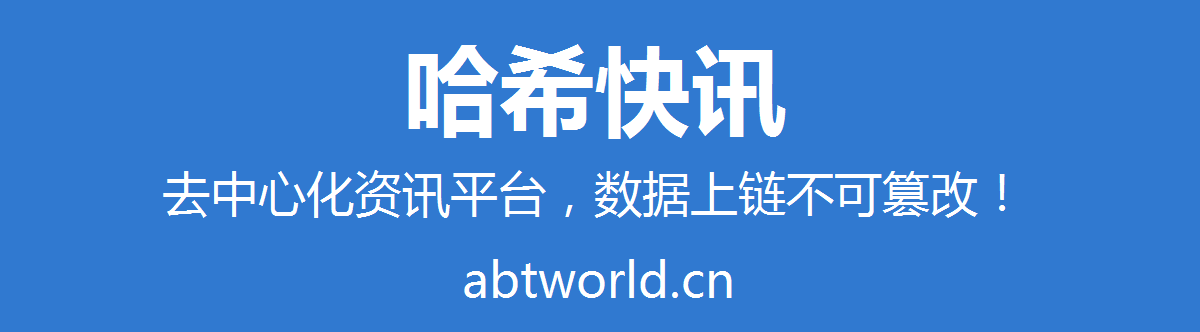
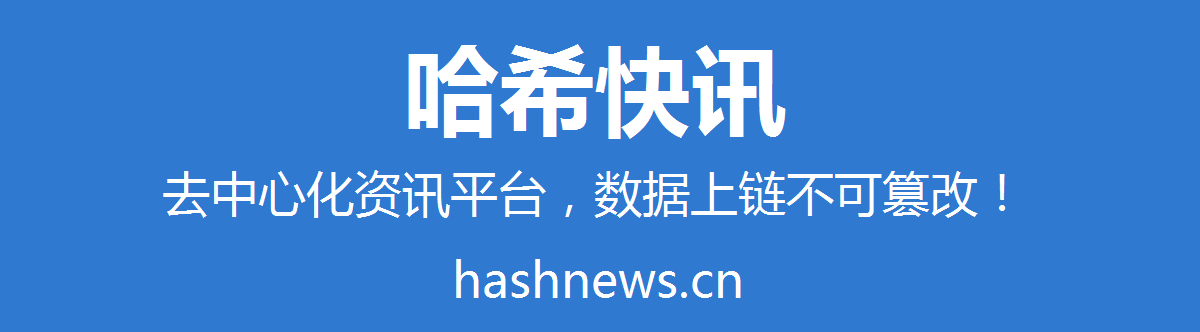
change abtworld to hashnews only

Changed region(s): [[0.37, 0.7831, 0.6167, 0.9036]]

diff --git a/api/routes/auth/login.js b/api/routes/auth/login.js
@@ -1,5 +1,6 @@
 /* eslint-disable object-curly-newline */
 /* eslint-disable no-console */
+const semver = require('semver');
 const env = require('../../libs/env');
 const { User } = require('../../models');
 const { login } = require('../../libs/jwt');
@@ -22,13 +23,35 @@ const loginReqFields = ['fullName', 'email', 'avatar'];
 /*The ios wallet 1.0 will crash when request avatar*/
 //const loginReqFields = ['fullName', 'email'];
 
+const MIN_VERSION_SUPPORT = { android: '2.1.0', ios: '2.1.0'};
+const unSupportWalletError = {
+  en: 'Your wallet version is lower, please update to the latest version',
+  zh: '您的钱包版本太低，请更新到最新版本',
+};
+const verifyWalletRequirements = ({ os = '', version = '', locale = 'zh'}) => {
+  if (os.toLocaleLowerCase() === 'ios' && version === '2.0') {
+    return true;
+  }
+  
+  const minVersion = MIN_VERSION_SUPPORT[os.toLocaleLowerCase()];
+  if(!minVersion || !semver.valid(version) || semver.lt(version, minVersion)) {
+    throw new Error(unSupportWalletError[locale]);
+  }
+  
+  return true;
+};
+
 module.exports = {
   action: 'login',
   claims: {
-    profile: ({ extraParams: { locale } }) => ({
-      fields: loginReqFields,
-      description: description[locale] || description.en,
-    }),
+    profile: ({ walletOS, walletVersion, extraParams: { locale } }) => {
+      verifyWalletRequirements({ os: walletOS, version: walletVersion, locale});
+      
+      return {
+        fields: loginReqFields,
+        description: description[locale] || description.en,
+      };
+    },
   },
   onAuth: async ({ claims, userDid, token, storage }) => {
     try {

diff --git a/src/pages/about.js b/src/pages/about.js
@@ -90,7 +90,7 @@ class App extends Component {
           <Typography component="p" variant="h6" className="page-description" color="textSecondary">
             欢迎进入ABT世界，这里是链网世界的入口，用于收录和展示ABT生态产品。
           </Typography>*/}
-          <Typography component="h2" variant="h5" className="page-header" color="primary" style={{ fontSize: '16px' }}>
+          {/*<Typography component="h2" variant="h5" className="page-header" color="primary" style={{ fontSize: '16px' }}>
             图片
           </Typography>
           <Typography component="p" variant="h6" className="page-description" color="textSecondary" style={{ fontSize: '15px' }}>
@@ -98,7 +98,7 @@ class App extends Component {
             2. 支付数据上链不可篡改，支付后用户拥有该图片的永久浏览权; <br/>
             3. 用户付费浏览后，提交者的DID账户中将实时收到付费收益; <br/>
             4. 图片的所有权归属用户，如发现侵权，可联系下架！<br/>
-          </Typography>
+          </Typography>*/}
           <Typography component="h2" variant="h5" className="page-header" color="primary" style={{ fontSize: '16px' }}>
             资讯
           </Typography>

diff --git a/src/pages/profile.js b/src/pages/profile.js
@@ -108,17 +108,17 @@ export default function ProfilePage() {
                 签到
               </Button>
             )*/}
-            <Button color="primary" variant="contained" onClick={onMyPayed} style={{ marginTop: '30px' }}>
+            {/*<Button color="primary" variant="contained" onClick={onMyPayed} style={{ marginTop: '30px' }}>
               已付列表
-            </Button>
-            <Button color="primary" variant="outlined" onClick={onMyUploads} style={{ marginTop: '30px' }}>
+            </Button>*/}
+            {/*<Button color="primary" variant="outlined" onClick={onMyUploads} style={{ marginTop: '30px' }}>
               已传列表
-            </Button>
-            {(-1 != admin_account.indexOf(user.did)) && (
+            </Button>*/}
+            {/*(-1 != admin_account.indexOf(user.did)) && (
               <Button color="primary" variant="contained" onClick={onAdmin} style={{ marginTop: '30px' }}>
                 后台管理
               </Button>
-            )}
+            )*/}
           </Grid>
           <Grid item xs={12} md={9} className="meta">
             <Typography component="h3" variant="h4">

diff --git a/src/components/header.js b/src/components/header.js
@@ -72,11 +72,11 @@ export default function Header() {
       <div className="nav-left">
         <Typography href="/" component="a" variant="h6" color="inherit" noWrap className="brand">
           {<img className="logo" src="/static/images/logo.png" alt="hashnews" />}
-          资讯
+          首页
         </Typography>
-        <Typography href="/picture" component="a" variant="h6" color="inherit" className="text">
+        {/*<Typography href="/picture" component="a" variant="h6" color="inherit" className="text">
           图片
-        </Typography>
+        </Typography>*/}
         <Typography href="/network" component="a" variant="h6" color="inherit" className="text">
           链网
         </Typography>

diff --git a/src/components/footer.js b/src/components/footer.js
@@ -75,7 +75,7 @@ export default function Footer() {
       title: '社区',
       items: [
         { 
-          title: 'ABT世界', 
+          title: '哈希快讯', 
           link: '/',
         },
         {
